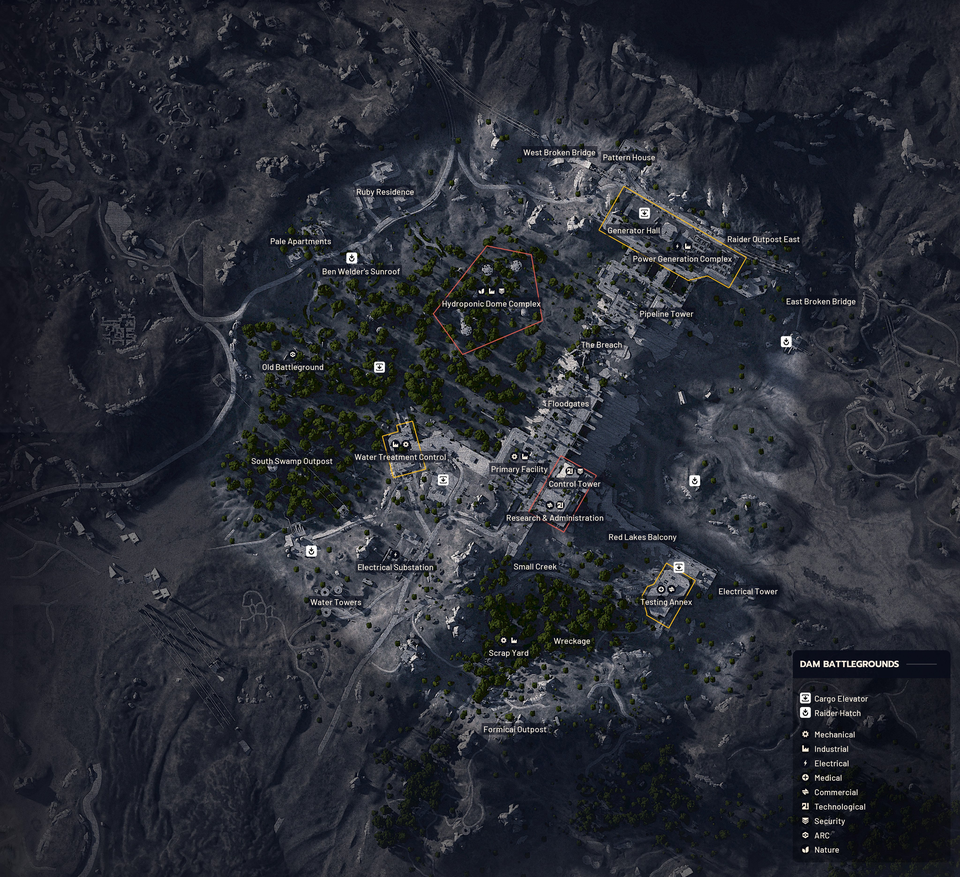
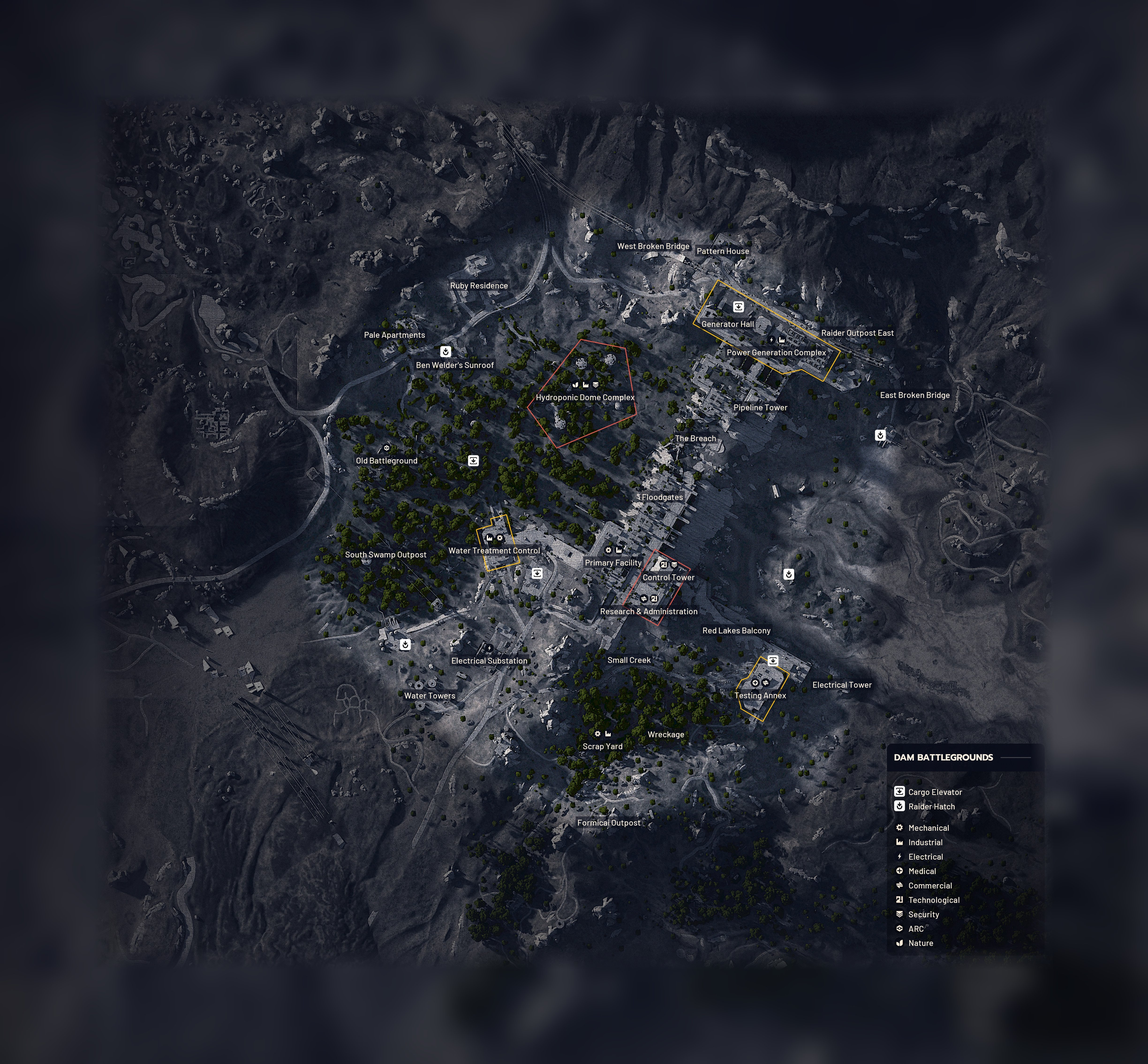
feat: extend map images with blurred edges, fitBounds zoom, offset coordinates

diff --git a/js/data.js b/js/data.js
@@ -2,12 +2,15 @@
 // All coordinates are [y, x] in pixel space matching each map's width/height.
 // These are PLACEHOLDERS — refine once pin positions are verified on the real map images.
 
+// border: pixels of blurred extension added on each side of the original map image.
+// Coordinates inside KEYS are relative to the full (extended) image.
+// The original map content sits at [border, border] to [height-border, width-border].
 const MAPS = [
-    { id: 'dam',           name: 'Dam Battlegrounds', image: 'images/maps/dam.jpg',           preview: 'images/preview/dam.jpg',           width: 4096, height: 3740 },
-    { id: 'spaceport',     name: 'Spaceport',         image: 'images/maps/spaceport.jpg',     preview: 'images/preview/spaceport.jpg',     width: 4096, height: 4096 },
-    { id: 'buried_city',   name: 'Buried City',       image: 'images/maps/buried_city.jpg',   preview: 'images/preview/buried_city.jpg',   width: 4096, height: 4096 },
-    { id: 'blue_gate',     name: 'Blue Gate',         image: 'images/maps/blue_gate.jpg',     preview: 'images/preview/blue_gate.jpg',     width: 4096, height: 3072 },
-    { id: 'stella_montis', name: 'Stella Montis',     image: 'images/maps/stella_montis.jpg', preview: 'images/preview/stella_montis.jpg', width: 4096, height: 3072 }
+    { id: 'dam',           name: 'Dam Battlegrounds', image: 'images/maps/dam.jpg',           preview: 'images/preview/dam.jpg',           width: 4896, height: 4540, border: 400 },
+    { id: 'spaceport',     name: 'Spaceport',         image: 'images/maps/spaceport.jpg',     preview: 'images/preview/spaceport.jpg',     width: 4896, height: 4896, border: 400 },
+    { id: 'buried_city',   name: 'Buried City',       image: 'images/maps/buried_city.jpg',   preview: 'images/preview/buried_city.jpg',   width: 4896, height: 4896, border: 400 },
+    { id: 'blue_gate',     name: 'Blue Gate',         image: 'images/maps/blue_gate.jpg',     preview: 'images/preview/blue_gate.jpg',     width: 4896, height: 3872, border: 400 },
+    { id: 'stella_montis', name: 'Stella Montis',     image: 'images/maps/stella_montis.jpg', preview: 'images/preview/stella_montis.jpg', width: 4896, height: 3872, border: 400 }
 ];
 
 const RARITIES = [
@@ -18,49 +21,49 @@ const RARITIES = [
 
 const KEYS = [
     // --- Dam Battlegrounds ---
-    { id: 'dam_surveillance',     map: 'dam',          name: 'Dam Surveillance Key',          rarity: 'uncommon', coords: [822, 1200],  location: 'Water Treatment Control Room' },
-    { id: 'dam_staff_room',       map: 'dam',          name: 'Dam Staff Room Key',            rarity: 'uncommon', coords: [548, 2800],  location: 'Control Tower — Staff Quarters' },
-    { id: 'dam_utility',          map: 'dam',          name: 'Dam Utility Key',               rarity: 'uncommon', coords: [2191, 1800], location: 'Utility Room (Lower Level)' },
-    { id: 'dam_testing_annex',    map: 'dam',          name: 'Dam Testing Annex Key',         rarity: 'rare',     coords: [1644, 3200], location: 'Testing Annex — Two Doors Inside' },
-    { id: 'dam_control_tower',    map: 'dam',          name: 'Dam Control Center Tower Key',  rarity: 'epic',     coords: [457, 2600],  location: 'Control Tower — Upper Level Room' },
+    { id: 'dam_surveillance',     map: 'dam',          name: 'Dam Surveillance Key',          rarity: 'uncommon', coords: [1222, 1600],  location: 'Water Treatment Control Room' },
+    { id: 'dam_staff_room',       map: 'dam',          name: 'Dam Staff Room Key',            rarity: 'uncommon', coords: [948, 3200],  location: 'Control Tower — Staff Quarters' },
+    { id: 'dam_utility',          map: 'dam',          name: 'Dam Utility Key',               rarity: 'uncommon', coords: [2591, 2200], location: 'Utility Room (Lower Level)' },
+    { id: 'dam_testing_annex',    map: 'dam',          name: 'Dam Testing Annex Key',         rarity: 'rare',     coords: [2044, 3600], location: 'Testing Annex — Two Doors Inside' },
+    { id: 'dam_control_tower',    map: 'dam',          name: 'Dam Control Center Tower Key',  rarity: 'epic',     coords: [857, 3000],  location: 'Control Tower — Upper Level Room' },
 
     // --- Spaceport ---
-    { id: 'sp_trench_tower',      map: 'spaceport',    name: 'Spaceport Trench Tower Key',    rarity: 'uncommon', coords: [1400, 1600], location: 'North & South Trench Towers' },
-    { id: 'sp_warehouse',         map: 'spaceport',    name: 'Spaceport Warehouse Key',       rarity: 'uncommon', coords: [2600, 3000], location: 'Shipping Warehouse — Upper Floors' },
-    { id: 'sp_ground_control',    map: 'spaceport',    name: 'Spaceport Ground Control Key',  rarity: 'uncommon', coords: [800, 2200],  location: 'Control Tower A6 — Upper Level' },
-    { id: 'sp_container_storage', map: 'spaceport',    name: 'Spaceport Container Storage Key', rarity: 'rare',   coords: [1000, 3400], location: 'Container Storage — Top Floor Red Door' },
-    { id: 'sp_outskirts_bunker',  map: 'spaceport',    name: 'Spaceport Outskirts Bunker Key',  rarity: 'rare',   coords: [3200, 600],  location: 'Outskirts Bunker' },
+    { id: 'sp_trench_tower',      map: 'spaceport',    name: 'Spaceport Trench Tower Key',    rarity: 'uncommon', coords: [1800, 2000], location: 'North & South Trench Towers' },
+    { id: 'sp_warehouse',         map: 'spaceport',    name: 'Spaceport Warehouse Key',       rarity: 'uncommon', coords: [3000, 3400], location: 'Shipping Warehouse — Upper Floors' },
+    { id: 'sp_ground_control',    map: 'spaceport',    name: 'Spaceport Ground Control Key',  rarity: 'uncommon', coords: [1200, 2600],  location: 'Control Tower A6 — Upper Level' },
+    { id: 'sp_container_storage', map: 'spaceport',    name: 'Spaceport Container Storage Key', rarity: 'rare',   coords: [1400, 3800], location: 'Container Storage — Top Floor Red Door' },
+    { id: 'sp_outskirts_bunker',  map: 'spaceport',    name: 'Spaceport Outskirts Bunker Key',  rarity: 'rare',   coords: [3600, 1000],  location: 'Outskirts Bunker' },
 
     // --- Buried City ---
-    { id: 'bc_residential',       map: 'buried_city',  name: 'Buried City Residential Master Key', rarity: 'uncommon', coords: [1600, 1400], location: 'Multiple Apartment Doors' },
-    { id: 'bc_jkv',               map: 'buried_city',  name: 'Buried City JKV Employee Card',      rarity: 'uncommon', coords: [2000, 2600], location: 'Space Travel Building — Fourth Floor' },
-    { id: 'bc_hospital',          map: 'buried_city',  name: 'Buried City Hospital Key',           rarity: 'rare',     coords: [1200, 3000], location: 'Hospital — Third Floor Room' },
-    { id: 'bc_town_hall',         map: 'buried_city',  name: 'Buried City Town Hall Key',          rarity: 'epic',     coords: [800, 1800],  location: 'Town Hall — Main Door' },
+    { id: 'bc_residential',       map: 'buried_city',  name: 'Buried City Residential Master Key', rarity: 'uncommon', coords: [2000, 1800], location: 'Multiple Apartment Doors' },
+    { id: 'bc_jkv',               map: 'buried_city',  name: 'Buried City JKV Employee Card',      rarity: 'uncommon', coords: [2400, 3000], location: 'Space Travel Building — Fourth Floor' },
+    { id: 'bc_hospital',          map: 'buried_city',  name: 'Buried City Hospital Key',           rarity: 'rare',     coords: [1600, 3400], location: 'Hospital — Third Floor Room' },
+    { id: 'bc_town_hall',         map: 'buried_city',  name: 'Buried City Town Hall Key',          rarity: 'epic',     coords: [1200, 2200],  location: 'Town Hall — Main Door' },
 
     // --- Blue Gate ---
-    { id: 'bg_village',           map: 'blue_gate',    name: 'Blue Gate Village Key',              rarity: 'uncommon', coords: [1650, 1000], location: 'Old Village Building Entrance' },
-    { id: 'bg_patrol_car',        map: 'blue_gate',    name: 'Blue Gate Patrol Car Key',           rarity: 'uncommon', coords: [2250, 2400], location: 'Patrol Car — Rear Door' },
-    { id: 'bg_comm_tower',        map: 'blue_gate',    name: 'Blue Gate Communication Tower Key',  rarity: 'rare',     coords: [450, 2800],  location: 'Communication Tower — Locked Room' },
-    { id: 'bg_cellar',            map: 'blue_gate',    name: 'Blue Gate Cellar Key',               rarity: 'rare',     coords: [1800, 1200], location: 'Village Building — Cellar Door' },
-    { id: 'bg_confiscation',      map: 'blue_gate',    name: 'Blue Gate Confiscation Room Key',    rarity: 'epic',     coords: [1350, 3200], location: 'Tunnel Networks — Confiscation Room' },
+    { id: 'bg_village',           map: 'blue_gate',    name: 'Blue Gate Village Key',              rarity: 'uncommon', coords: [2050, 1400], location: 'Old Village Building Entrance' },
+    { id: 'bg_patrol_car',        map: 'blue_gate',    name: 'Blue Gate Patrol Car Key',           rarity: 'uncommon', coords: [2650, 2800], location: 'Patrol Car — Rear Door' },
+    { id: 'bg_comm_tower',        map: 'blue_gate',    name: 'Blue Gate Communication Tower Key',  rarity: 'rare',     coords: [850, 3200],  location: 'Communication Tower — Locked Room' },
+    { id: 'bg_cellar',            map: 'blue_gate',    name: 'Blue Gate Cellar Key',               rarity: 'rare',     coords: [2200, 1600], location: 'Village Building — Cellar Door' },
+    { id: 'bg_confiscation',      map: 'blue_gate',    name: 'Blue Gate Confiscation Room Key',    rarity: 'epic',     coords: [1750, 3600], location: 'Tunnel Networks — Confiscation Room' },
 
     // --- Stella Montis ---
-    { id: 'sm_assembly',          map: 'stella_montis', name: 'Stella Montis Assembly Admin Key',        rarity: 'uncommon', coords: [900, 1800], location: 'Assembly Hallway — Locked Door' },
-    { id: 'sm_medical',           map: 'stella_montis', name: 'Stella Montis Medical Storage Key',       rarity: 'uncommon', coords: [1950, 2200], location: 'Medical Storage Area' },
-    { id: 'sm_archives',          map: 'stella_montis', name: 'Stella Montis Archives Key',              rarity: 'rare',     coords: [675, 3000],  location: 'Seat Vault Area — Tunnel End Door' },
-    { id: 'sm_security',          map: 'stella_montis', name: 'Stella Montis Security Checkpoint Key',   rarity: 'epic',     coords: [1200, 600],  location: 'Security Checkpoint Access Point' },
+    { id: 'sm_assembly',          map: 'stella_montis', name: 'Stella Montis Assembly Admin Key',        rarity: 'uncommon', coords: [1300, 2200], location: 'Assembly Hallway — Locked Door' },
+    { id: 'sm_medical',           map: 'stella_montis', name: 'Stella Montis Medical Storage Key',       rarity: 'uncommon', coords: [2350, 2600], location: 'Medical Storage Area' },
+    { id: 'sm_archives',          map: 'stella_montis', name: 'Stella Montis Archives Key',              rarity: 'rare',     coords: [1075, 3400],  location: 'Seat Vault Area — Tunnel End Door' },
+    { id: 'sm_security',          map: 'stella_montis', name: 'Stella Montis Security Checkpoint Key',   rarity: 'epic',     coords: [1600, 1000],  location: 'Security Checkpoint Access Point' },
 
     // --- Special: Raider Hatch Key (multiple pins per map) ---
-    { id: 'hatch_dam_1',          map: 'dam',          name: 'Raider Hatch Key',               rarity: 'rare', coords: [1278, 800],  location: 'Extraction Hatch — Swamp Edge' },
-    { id: 'hatch_dam_2',          map: 'dam',          name: 'Raider Hatch Key',               rarity: 'rare', coords: [2739, 2000], location: 'Extraction Hatch — East Ruins' },
-    { id: 'hatch_sp_1',           map: 'spaceport',    name: 'Raider Hatch Key',               rarity: 'rare', coords: [500, 1000],  location: 'Extraction Hatch — Launch Pad Area' },
-    { id: 'hatch_sp_2',           map: 'spaceport',    name: 'Raider Hatch Key',               rarity: 'rare', coords: [3400, 2800], location: 'Extraction Hatch — South Terminal' },
-    { id: 'hatch_bc_1',           map: 'buried_city',  name: 'Raider Hatch Key',               rarity: 'rare', coords: [600, 2200],  location: 'Extraction Hatch — Market Square' },
-    { id: 'hatch_bc_2',           map: 'buried_city',  name: 'Raider Hatch Key',               rarity: 'rare', coords: [3200, 800],  location: 'Extraction Hatch — Sand Dunes' },
-    { id: 'hatch_bg_1',           map: 'blue_gate',    name: 'Raider Hatch Key',               rarity: 'rare', coords: [750, 3400], location: 'Extraction Hatch — Mountain Ridge' },
-    { id: 'hatch_bg_2',           map: 'blue_gate',    name: 'Raider Hatch Key',               rarity: 'rare', coords: [2100, 600],  location: 'Extraction Hatch — Underground Exit' },
-    { id: 'hatch_sm_1',           map: 'stella_montis', name: 'Raider Hatch Key',              rarity: 'rare', coords: [300, 2400],  location: 'Extraction Hatch — Assembly Roof' },
-    { id: 'hatch_sm_2',           map: 'stella_montis', name: 'Raider Hatch Key',              rarity: 'rare', coords: [2250, 1400], location: 'Extraction Hatch — Lower Tunnels' }
+    { id: 'hatch_dam_1',          map: 'dam',          name: 'Raider Hatch Key',               rarity: 'rare', coords: [1678, 1200],  location: 'Extraction Hatch — Swamp Edge' },
+    { id: 'hatch_dam_2',          map: 'dam',          name: 'Raider Hatch Key',               rarity: 'rare', coords: [3139, 2400], location: 'Extraction Hatch — East Ruins' },
+    { id: 'hatch_sp_1',           map: 'spaceport',    name: 'Raider Hatch Key',               rarity: 'rare', coords: [900, 1400],  location: 'Extraction Hatch — Launch Pad Area' },
+    { id: 'hatch_sp_2',           map: 'spaceport',    name: 'Raider Hatch Key',               rarity: 'rare', coords: [3800, 3200], location: 'Extraction Hatch — South Terminal' },
+    { id: 'hatch_bc_1',           map: 'buried_city',  name: 'Raider Hatch Key',               rarity: 'rare', coords: [1000, 2600],  location: 'Extraction Hatch — Market Square' },
+    { id: 'hatch_bc_2',           map: 'buried_city',  name: 'Raider Hatch Key',               rarity: 'rare', coords: [3600, 1200],  location: 'Extraction Hatch — Sand Dunes' },
+    { id: 'hatch_bg_1',           map: 'blue_gate',    name: 'Raider Hatch Key',               rarity: 'rare', coords: [1150, 3800], location: 'Extraction Hatch — Mountain Ridge' },
+    { id: 'hatch_bg_2',           map: 'blue_gate',    name: 'Raider Hatch Key',               rarity: 'rare', coords: [2500, 1000],  location: 'Extraction Hatch — Underground Exit' },
+    { id: 'hatch_sm_1',           map: 'stella_montis', name: 'Raider Hatch Key',              rarity: 'rare', coords: [700, 2800],  location: 'Extraction Hatch — Assembly Roof' },
+    { id: 'hatch_sm_2',           map: 'stella_montis', name: 'Raider Hatch Key',              rarity: 'rare', coords: [2650, 1800], location: 'Extraction Hatch — Lower Tunnels' }
 ];
 
 // Helper: get rarity object by id

diff --git a/js/app.js b/js/app.js
@@ -58,9 +58,8 @@ function initLeafletMap(map) {
 
     leafletMap = L.map('leaflet-map', {
         crs: L.CRS.Simple,
-        center: [map.height / 2, map.width / 2],
         zoom: 0,
-        minZoom: -2,
+        minZoom: -3,
         maxZoom: 3,
         zoomControl: true,
         attributionControl: false
@@ -68,7 +67,12 @@ function initLeafletMap(map) {
 
     L.imageOverlay(map.image, [[0, 0], [map.height, map.width]]).addTo(leafletMap);
 
-    leafletMap.setView([map.height / 2, map.width / 2], 0);
+    // Fit the original map content (inside the blurred border) to the viewport
+    var contentBounds = L.latLngBounds(
+        [map.border, map.border],
+        [map.height - map.border, map.width - map.border]
+    );
+    leafletMap.fitBounds(contentBounds);
 }
 
 // --- Rarity Filter Bar ---
